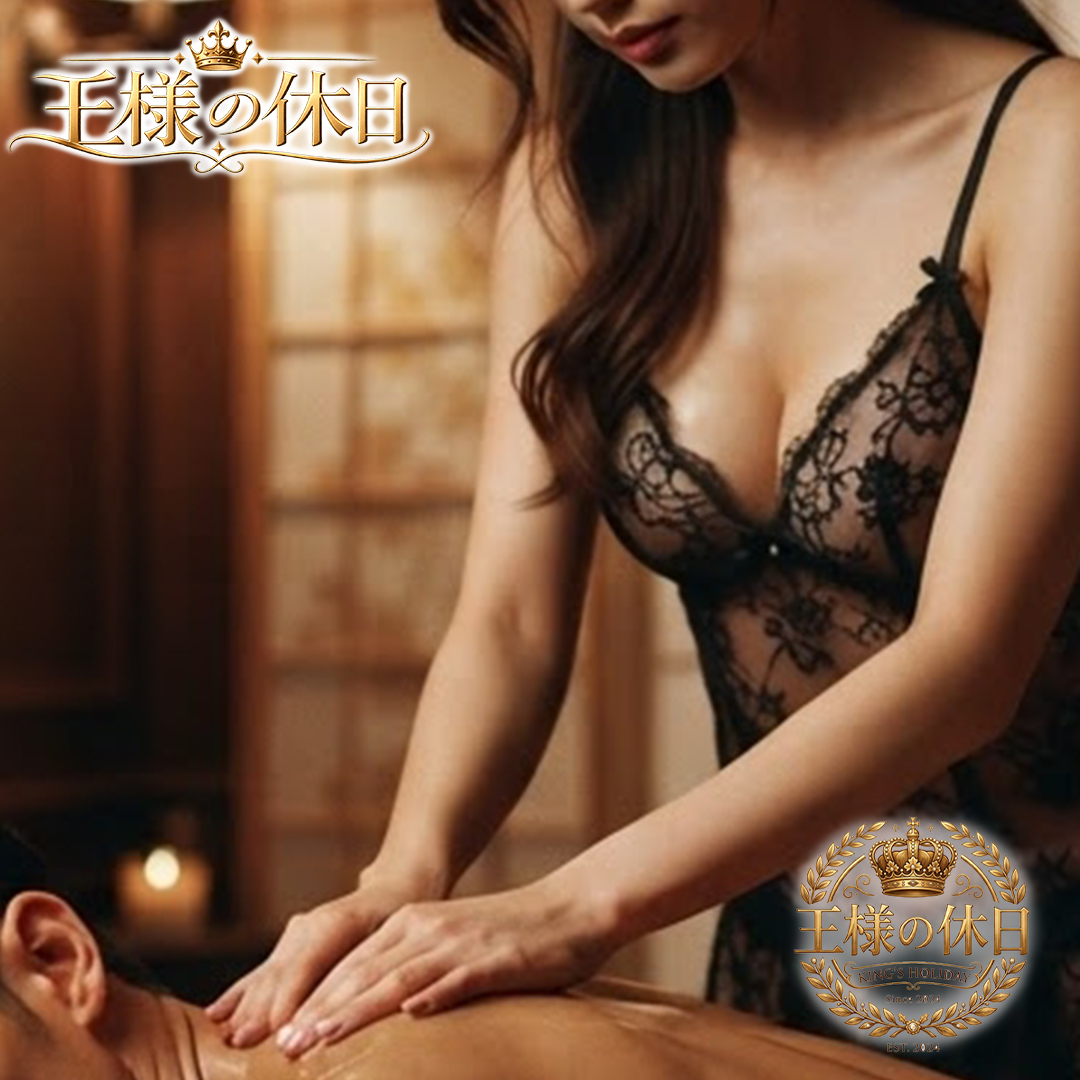
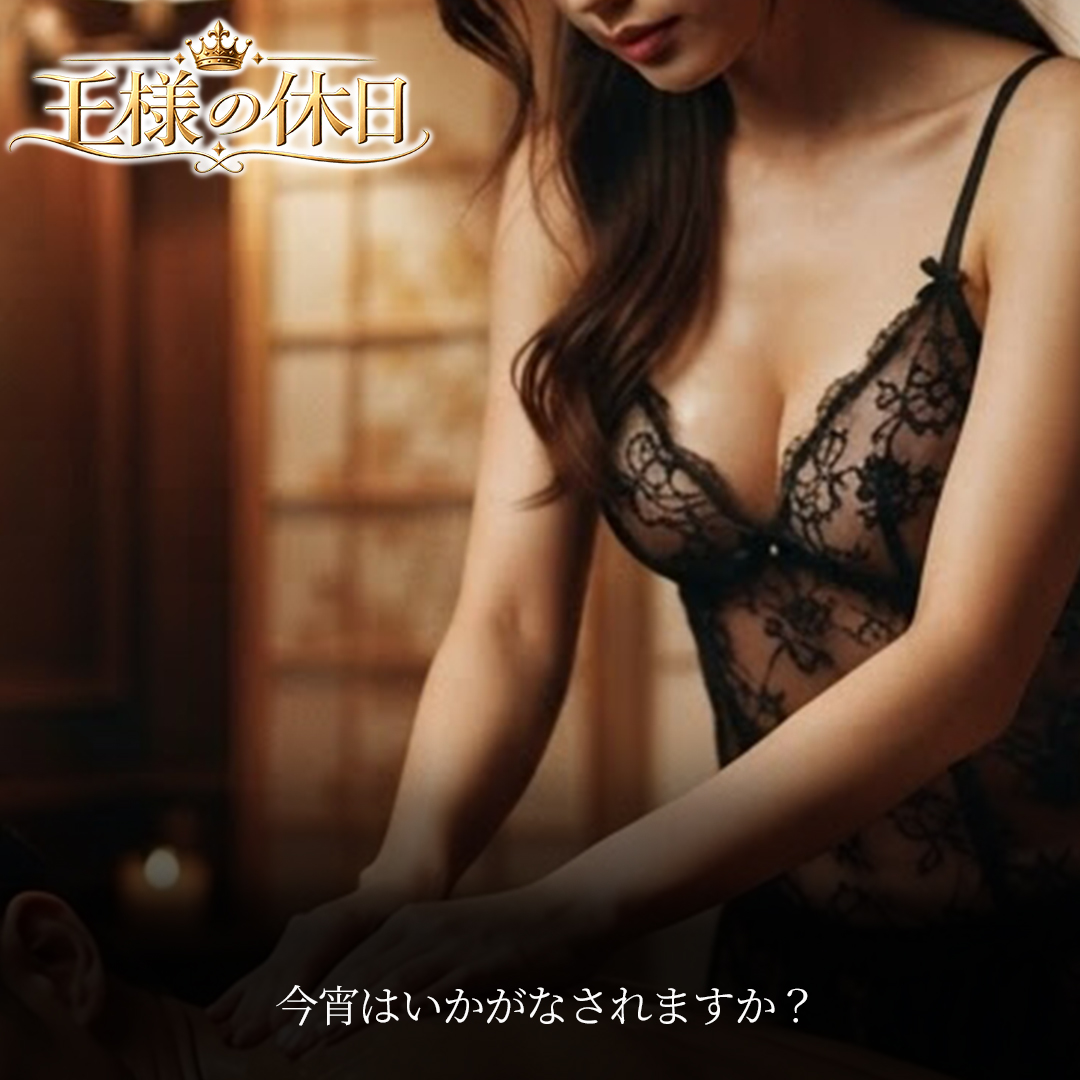
feat: ヒーロー画像を差し替え＋CMSから差し替え可能に配線
- public/hero/hero-{pc,mobile}.jpg を「王様の休日」画像に更新
- hero-banner.tsx: heroImageUrl を受け取り、CMSのURLがあれば優先・無ければ静的ファイルにフォールバック
- page.tsx: 公開home の hero ブロック imageId を mediaMap でURL解決して HeroBanner に渡す
  → /admin/media アップロード → /admin/pages/home でヒーロー画像選択 → 公開 で差し替え可能
- pnpm typecheck 通過

Claude-Session: https://claude.ai/code/session_0191akEoaW2KMsHFK5F88nW6

Changed region(s): [[0.0, 0.6722, 1.0, 1.0]]

diff --git a/src/app/(public)/_components/hero-banner.tsx b/src/app/(public)/_components/hero-banner.tsx
@@ -1,8 +1,9 @@
 /**
  * トップのヒーローバナー（公開側 / spec 12-1）。
  *
- * アートディレクション: スマホは縦構図、PC は横構図の別画像を出し分けるため
- * next/image ではなく <picture> を使う（同一画像のレスポンシブ最適化とは目的が違う）。
+ * CMS でヒーロー画像が設定されている場合はそれを優先表示する。
+ * 未設定時はアートディレクション用の静的ファイル（/hero/）にフォールバックする:
+ *   スマホは縦構図（hero-mobile.jpg）、PC は横構図（hero-pc.jpg）の別画像出し分け。
  * ヒーロー画像の下に、世界観を伝えるコンセプトコピー画像（under-hero）を重ねる。
  *
  * 文言は直書きしない（alt / SEO テキストは CMS ラベル経由 / spec 3-6・13-1）。
@@ -15,24 +16,40 @@ export function HeroBanner({
   brandName,
   underHeroAlt,
   underHeroSeo,
+  heroImageUrl,
 }: {
   brandName: string;
   underHeroAlt: string;
   underHeroSeo: string;
+  /** CMS メディアライブラリから選択されたヒーロー画像 URL。未設定時は /hero/ の静的ファイルにフォールバック */
+  heroImageUrl?: string | null;
 }) {
   return (
     <section className="w-full overflow-hidden bg-pub-bg">
-      <picture>
-        <source media="(min-width: 768px)" srcSet="/hero/hero-pc.jpg" />
-        {/* eslint-disable-next-line @next/next/no-img-element */}
+      {heroImageUrl ? (
+        /* CMS 設定画像（PC/スマホ共通1枚） */
+        // eslint-disable-next-line @next/next/no-img-element
         <img
-          src="/hero/hero-mobile.jpg"
+          src={heroImageUrl}
           alt={brandName}
           className="mx-auto block h-auto w-full object-cover"
           fetchPriority="high"
           decoding="async"
         />
-      </picture>
+      ) : (
+        /* フォールバック: スマホ/PC 別画像アートディレクション */
+        <picture>
+          <source media="(min-width: 768px)" srcSet="/hero/hero-pc.jpg" />
+          {/* eslint-disable-next-line @next/next/no-img-element */}
+          <img
+            src="/hero/hero-mobile.jpg"
+            alt={brandName}
+            className="mx-auto block h-auto w-full object-cover"
+            fetchPriority="high"
+            decoding="async"
+          />
+        </picture>
+      )}
 
       {/* ヒーロー直下のコンセプトコピー画像（縦構図・全幅／PC は中央寄せ） */}
       <div className="mx-auto w-full max-w-[640px]">

diff --git a/src/app/(public)/page.tsx b/src/app/(public)/page.tsx
@@ -163,6 +163,13 @@ export default async function HomePage() {
   const weekdays = label(ctx, "schedule_weekdays");
   const bookingHref = ctx.labels["booking_href"] || "/booking";
 
+  // hero ブロックの imageId → media URL（CMS で差し替えた画像を使う）
+  const heroBlock = page.blocks.find((b) => b.type === "hero");
+  const heroImageUrl =
+    heroBlock && "imageId" in heroBlock && typeof heroBlock.imageId === "string"
+      ? (mediaMap.get(heroBlock.imageId)?.url ?? null)
+      : null;
+
   return (
     <div>
       {/* ヒーローバナー（スマホ/PC で別画像・アートディレクション＋コンセプトコピー画像） */}
@@ -170,6 +177,7 @@ export default async function HomePage() {
         brandName={ctx.brandName}
         underHeroAlt={label(ctx, "under_hero_alt")}
         underHeroSeo={label(ctx, "under_hero_seo")}
+        heroImageUrl={heroImageUrl}
       />
 
       {/* pages(home) published ブロック（未公開なら空状態） */}
